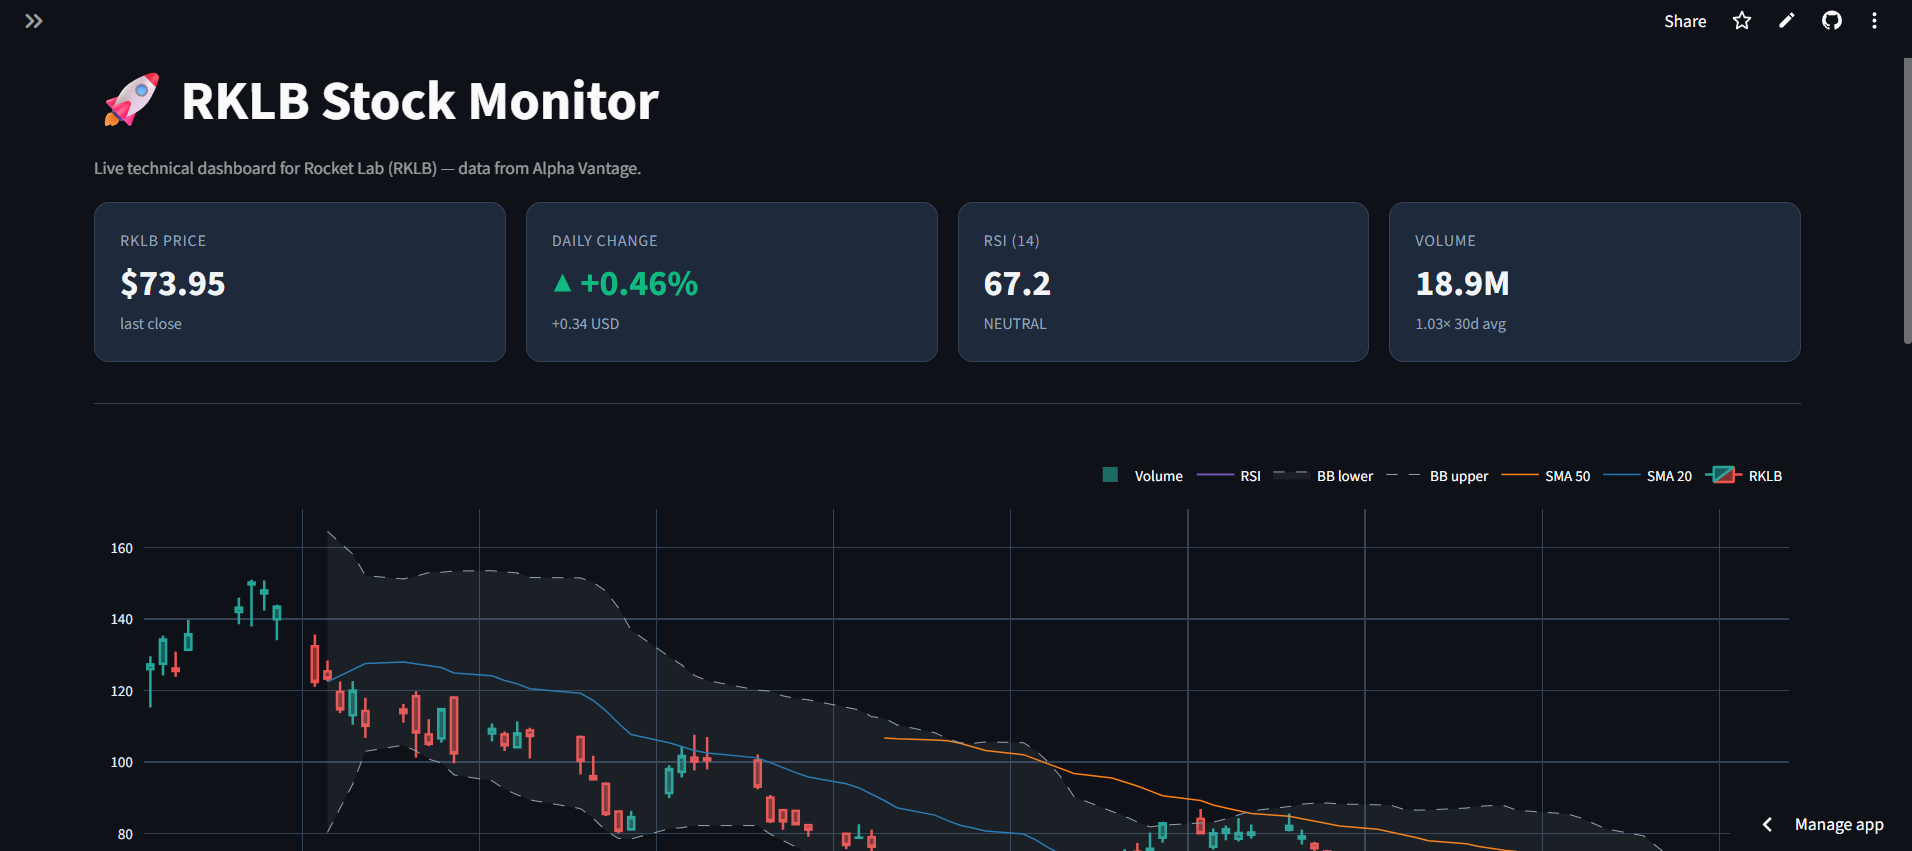
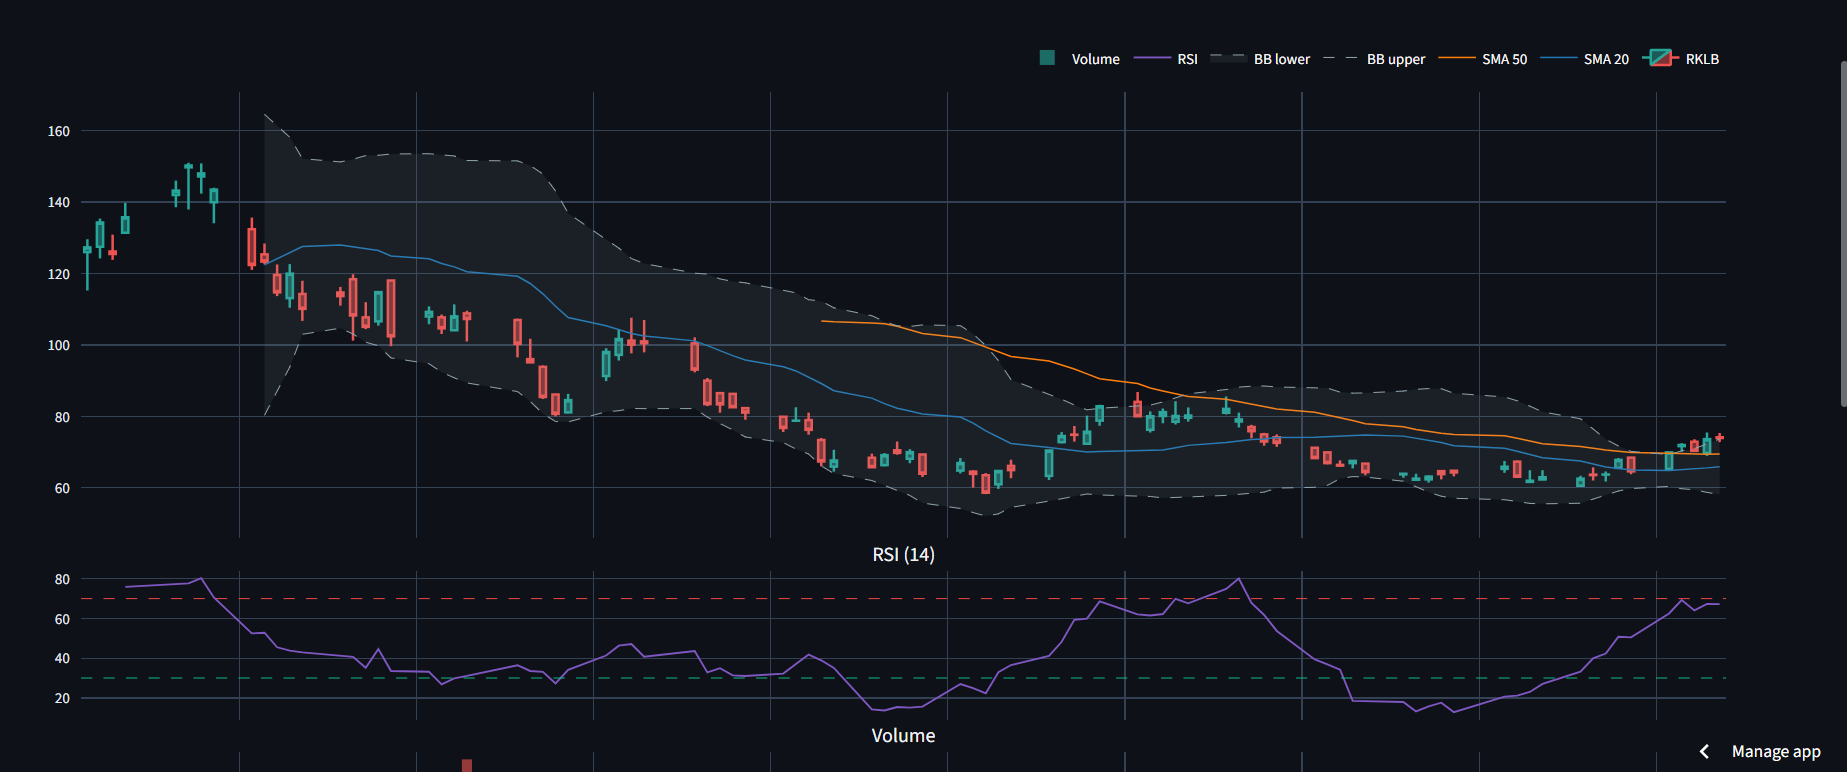
Fix README encoding and add chart part 2

diff --git a/README.md b/README.md
@@ -1,8 +1,8 @@
-# ðŸš€ RKLB Stock Monitor
+# 🚀 RKLB Stock Monitor
 
-An automated Python tool that tracks **Rocket Lab (RKLB)** stock with live candlestick charts, technical indicators, and interactive dashboards â€” using real market data from the Alpha Vantage API.
+An automated Python tool that tracks **Rocket Lab (RKLB)** stock with live candlestick charts, technical indicators, and interactive dashboards — using real market data from the Alpha Vantage API.
 
-**ðŸ”— [Try it live](https://rklb-monitor-vinhais10.streamlit.app)**
+**🔗 [Try it live](https://rklb-monitor-vinhais10.streamlit.app)**
 
 ![Python](https://img.shields.io/badge/python-3.11-blue.svg)
 ![Streamlit](https://img.shields.io/badge/streamlit-dashboard-red.svg)
@@ -11,15 +11,19 @@ An automated Python tool that tracks **Rocket Lab (RKLB)** stock with live candl
 
 ---
 
-## ðŸ“Š Dashboard Preview
+## 📊 Dashboard Preview
 
 ### 1. KPIs and main chart
 
 ![Dashboard](dashboard.png)
 
-### 2. Full technical chart â€” candlesticks, RSI, and volume
+### 2. Full technical chart (part 1) — candlesticks, SMAs, and Bollinger Bands
 
-![Chart](chart.png)
+![Chart 1](chart.png)
+
+### 2. Full technical chart (part 2) — volume
+
+![Chart 2](chart2.png)
 
 ### 3. Recent data table
 
@@ -27,7 +31,7 @@ An automated Python tool that tracks **Rocket Lab (RKLB)** stock with live candl
 
 ---
 
-## ðŸ“Œ What This Does
+## 📌 What This Does
 
 Rocket Lab is a publicly traded space company (NASDAQ: RKLB). Tracking its price action manually is slow and error-prone. This project automates the entire process:
 
@@ -36,33 +40,33 @@ Rocket Lab is a publicly traded space company (NASDAQ: RKLB). Tracking its price
 - Renders an interactive dashboard with candlestick charts, RSI panel, and volume
 - Optionally sends automatic Telegram alerts for RSI overbought/oversold and price moves >= 5%
 
-## âœ¨ Features
+## ✨ Features
 
-- **Real market data** â€” daily OHLCV from the Alpha Vantage API
-- **Interactive dashboard** â€” dark theme with KPI cards and Plotly charts
+- **Real market data** — daily OHLCV from the Alpha Vantage API
+- **Interactive dashboard** — dark theme with KPI cards and Plotly charts
 - **Candlestick chart** with 20-day and 50-day SMAs
 - **Bollinger Bands** with fill between upper/lower bounds
 - **RSI (14-period) panel** with overbought/oversold reference lines
 - **Volume panel** synced to the price chart
-- **Ticker input** â€” switch symbols directly from the sidebar
-- **Lookback slider** â€” choose 30, 90, 180, or 365 days
-- **Recent data table** â€” last 10 trading days with all indicators
-- **Telegram bot** (optional) â€” /price, /chart, and /help commands
-- **Automatic alerts** â€” RSI crosses and 5%+ daily moves
+- **Ticker input** — switch symbols directly from the sidebar
+- **Lookback slider** — choose 30, 90, 180, or 365 days
+- **Recent data table** — last 10 trading days with all indicators
+- **Telegram bot** (optional) — /price, /chart, and /help commands
+- **Automatic alerts** — RSI crosses and 5%+ daily moves
 - **Unit tests** for indicator calculations
-- **Graceful error handling** â€” API limits and network issues don't crash the app
+- **Graceful error handling** — API limits and network issues don't crash the app
 
-## ðŸ› ï¸ Tech Stack
+## 🛠 Tech Stack
 
-- **Python 3.11** â€” core language
-- **pandas** â€” data manipulation
-- **Plotly** â€” interactive charts
-- **Streamlit** â€” dashboard UI
-- **Alpha Vantage API** â€” market data source
-- **python-telegram-bot** (optional) â€” Telegram integration
-- **pytest** â€” unit tests
+- **Python 3.11** — core language
+- **pandas** — data manipulation
+- **Plotly** — interactive charts
+- **Streamlit** — dashboard UI
+- **Alpha Vantage API** — market data source
+- **python-telegram-bot** (optional) — Telegram integration
+- **pytest** — unit tests
 
-## ðŸš€ Setup
+## 🚀 Setup
 
 ### 1. Clone this repository
 
@@ -89,36 +93,36 @@ Copy .env.example to .env and add your key:
 
 The dashboard opens at http://localhost:8501
 
-## ðŸ“ Project Structure
+## 📁 Project Structure
 
     RKLB-stock-monitor/
-    â”œâ”€â”€ app.py                    # Streamlit dashboard
-    â”œâ”€â”€ stocks.py                 # Core logic: data + technical indicators
-    â”œâ”€â”€ telegram_bot.py           # Optional Telegram bot
-    â”œâ”€â”€ test_rsi_functions.py     # Unit tests for indicators
-    â”œâ”€â”€ config.py                 # Local API keys (gitignored)
-    â”œâ”€â”€ config_template.py        # Template for config
-    â”œâ”€â”€ requirements.txt
-    â”œâ”€â”€ .env.example              # Template for environment variables
-    â”œâ”€â”€ .gitignore
-    â””â”€â”€ README.md
+    ├── app.py                    # Streamlit dashboard
+    ├── stocks.py                 # Core logic: data + technical indicators
+    ├── telegram_bot.py           # Optional Telegram bot
+    ├── test_rsi_functions.py     # Unit tests for indicators
+    ├── config.py                 # Local API keys (gitignored)
+    ├── config_template.py        # Template for config
+    ├── requirements.txt
+    ├── .env.example              # Template for environment variables
+    ├── .gitignore
+    └── README.md
 
-## ðŸ§  Technical Indicators
+## 🧠 Technical Indicators
 
 ### RSI (Relative Strength Index)
 
 Measures momentum on a 0-100 scale.
 
-- < 30 â€” Oversold (potential buy signal)
-- 30-70 â€” Neutral
-- > 70 â€” Overbought (potential sell signal)
+- < 30 — Oversold (potential buy signal)
+- 30-70 — Neutral
+- > 70 — Overbought (potential sell signal)
 
 ### SMA (Simple Moving Average)
 
 Two periods displayed:
 
-- **SMA 20** (blue) â€” short-term trend
-- **SMA 50** (orange) â€” medium-term trend
+- **SMA 20** (blue) — short-term trend
+- **SMA 50** (orange) — medium-term trend
 
 When SMA 20 crosses above SMA 50 = golden cross (bullish).
 When SMA 20 crosses below SMA 50 = death cross (bearish).
@@ -129,9 +133,9 @@ When SMA 20 crosses below SMA 50 = death cross (bearish).
 
 ### VWAP (Volume-Weighted Average Price)
 
-Average price weighted by volume â€” used by traders to gauge whether price is trading above or below fair value.
+Average price weighted by volume — used by traders to gauge whether price is trading above or below fair value.
 
-## ðŸ“¤ Example Output
+## 📤 Example Output
 
 | Date | Open | High | Low | Close | Volume | RSI |
 |---|---|---|---|---|---|---|
@@ -140,7 +144,7 @@ Average price weighted by volume â€” used by traders to gauge whether price
 | 2026-09-23 | 72.87 | 73.57 | 70.08 | 70.31 | 19.3M | 64.04 |
 | 2026-09-22 | 71.64 | 72.50 | 70.10 | 71.98 | 22.0M | 69.22 |
 
-## ðŸ—ºï¸ Roadmap
+## 🗺 Roadmap
 
 - [x] Real OHLCV data from Alpha Vantage
 - [x] Technical indicators (RSI, SMA, VWAP, Bollinger)
@@ -156,15 +160,15 @@ Average price weighted by volume â€” used by traders to gauge whether price
 - [ ] Email alerts
 - [ ] Comparison with peers (AST SpaceMobile, Firefly, etc.)
 
-## ðŸ¤ Contributing
+## 🤝 Contributing
 
 Pull requests are welcome. For major changes, please open an issue first.
 
-## ðŸ“„ License
+## 📄 License
 
 This project is licensed under the MIT License.
 
-## ðŸ™ Acknowledgements
+## 🙏 Acknowledgements
 
 - Alpha Vantage (https://www.alphavantage.co/) for the free market data API
 - Streamlit (https://streamlit.io/) for the dashboard framework
